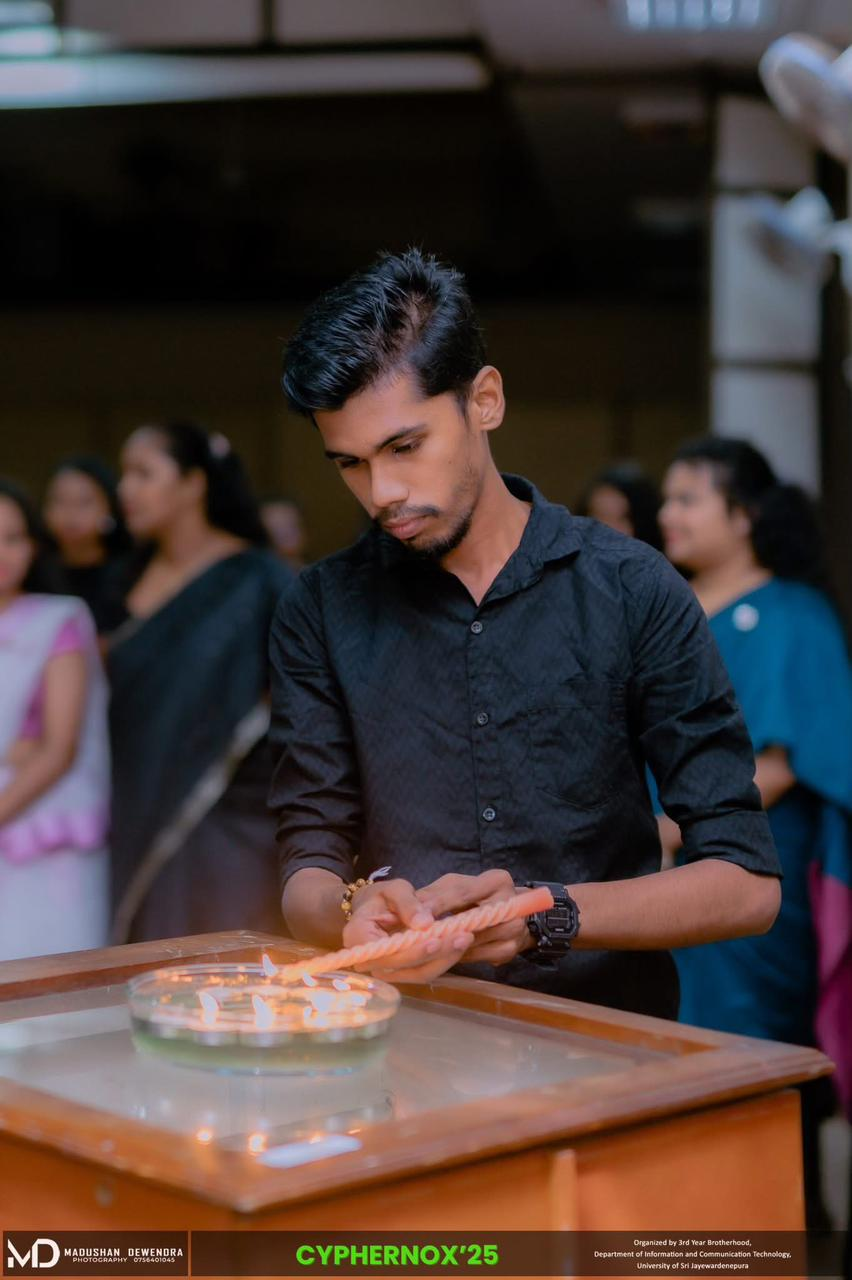
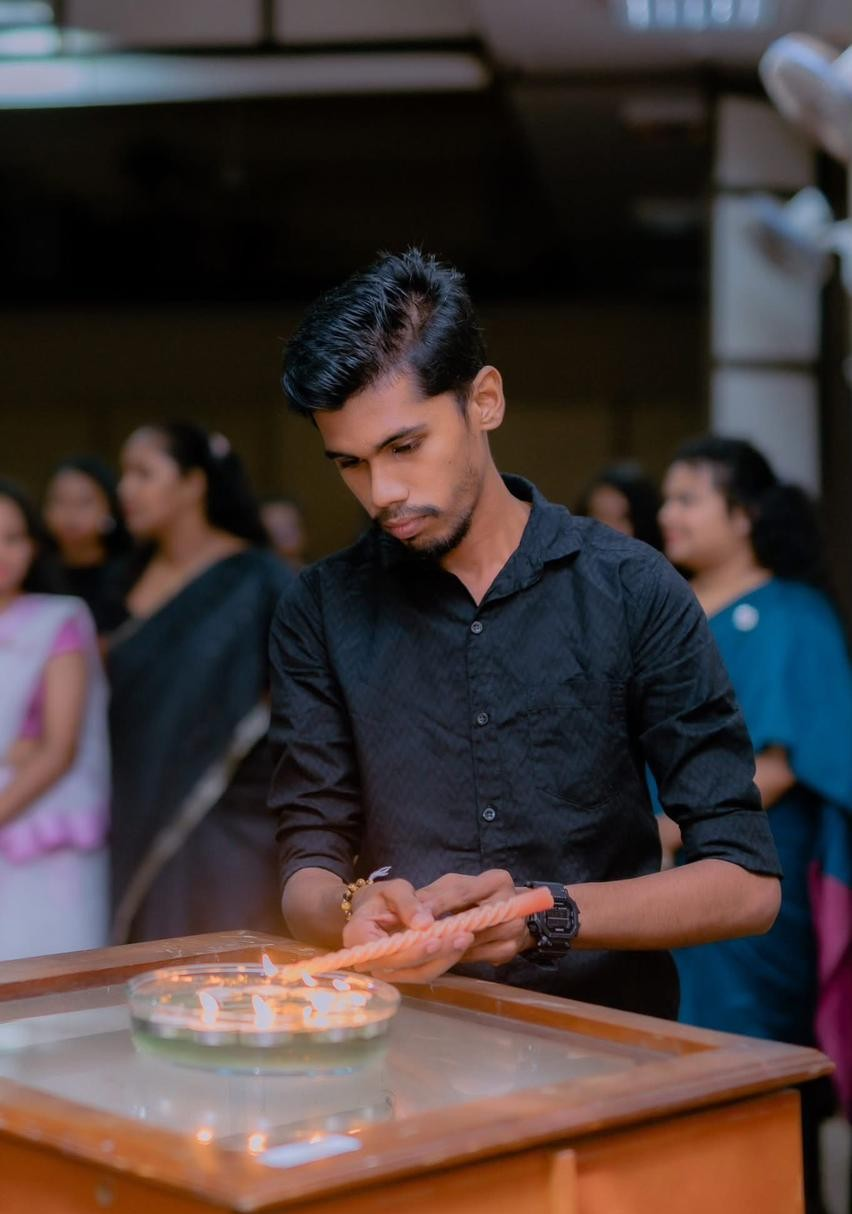
added the image for introduce myself section

diff --git a/src/components/Home/Home2.js b/src/components/Home/Home2.js
@@ -1,6 +1,6 @@
 import React from "react";
 import { Container, Row, Col } from "react-bootstrap";
-import myImg from "../../Assets/avatar.svg";
+import myImg from "../../Assets/self.jpg";
 import Tilt from "react-parallax-tilt";
 
 function Home2() {
